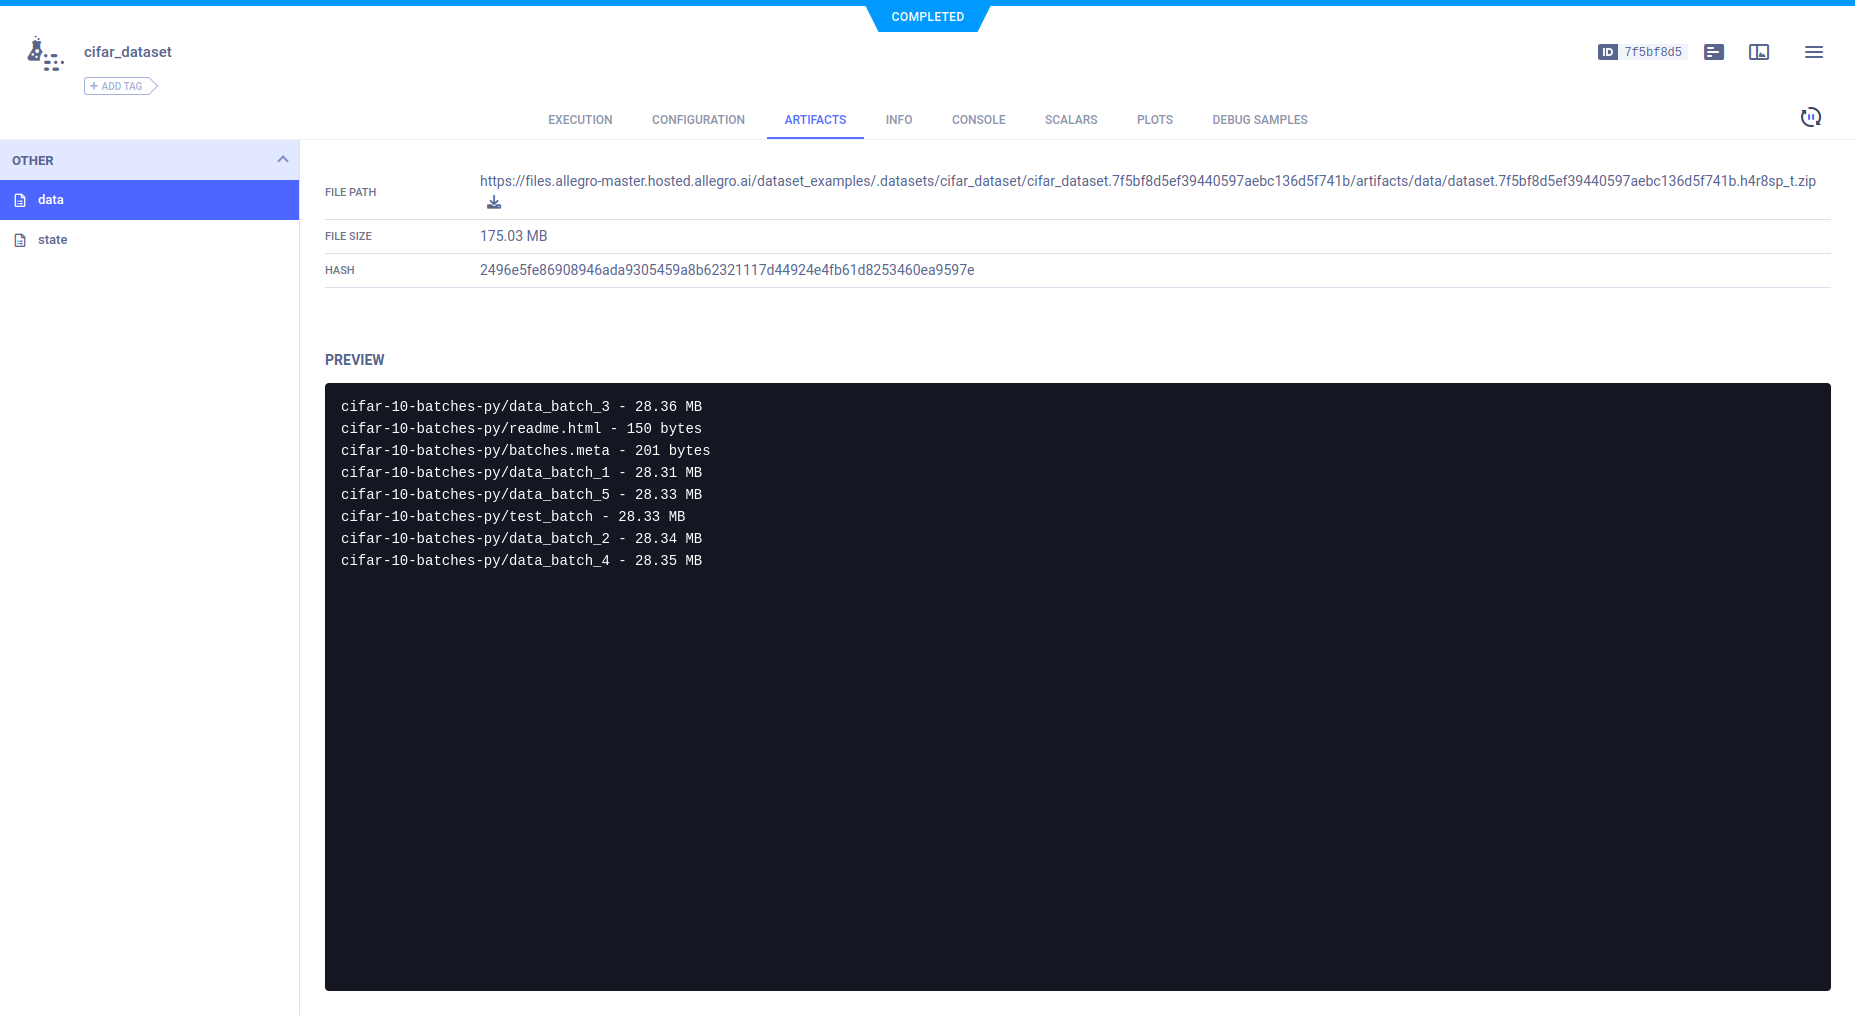
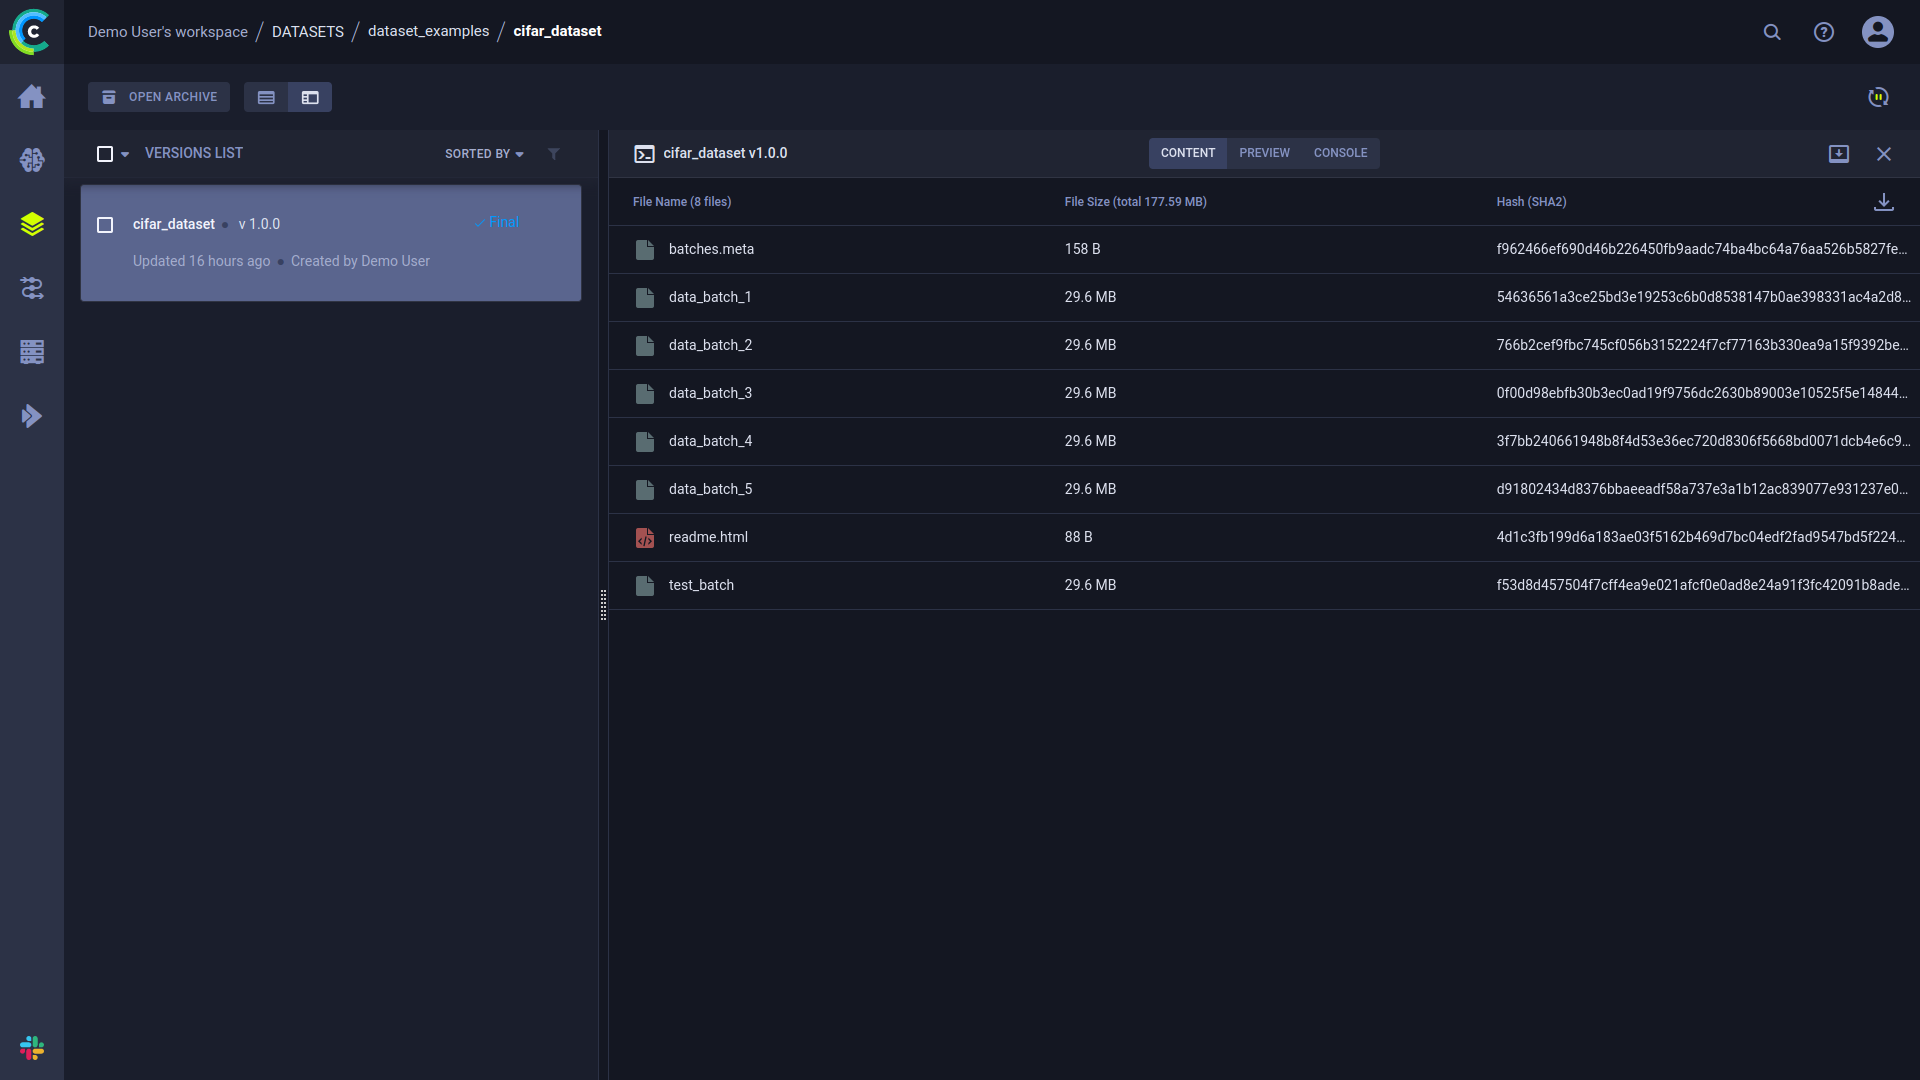
dataset image update

diff --git a/docs/clearml_data/data_management_examples/data_man_cifar_classification.md b/docs/clearml_data/data_management_examples/data_man_cifar_classification.md
@@ -65,10 +65,10 @@ clearml-data close
 This command sets the dataset task's status to *completed*, so it will no longer be modifiable. This ensures future
 reproducibility. 
 
-The information about the dataset, including a list of files and their sizes, can be viewed
-in the WebApp, in the dataset task's **ARTIFACTS** tab.
+Information about the dataset can be viewed in the WebApp, in the dataset's [details panel](../../webapp/datasets/webapp_dataset_viewing.md#version-details-panel). 
+In the panel's **CONTENT** tab, you can see a table summarizing version contents, including file names, file sizes, and hashes.
 
-![image](../../img/examples_data_management_cifar_dataset.png)
+![Dataset content tab](../../img/examples_data_management_cifar_dataset.png)
 
 ## Using the Dataset
 

diff --git a/docs/guides/datasets/data_man_cifar_classification.md b/docs/guides/datasets/data_man_cifar_classification.md
@@ -65,10 +65,10 @@ clearml-data close
 This command sets the dataset task's status to *completed*, so it will no longer be modifiable. This ensures future
 reproducibility. 
 
-The information about the dataset, including a list of files and their sizes, can be viewed
-in the WebApp, in the dataset task's **ARTIFACTS** tab.
+Information about the dataset can be viewed in the WebApp, in the dataset's [details panel](../../webapp/datasets/webapp_dataset_viewing.md#version-details-panel). 
+In the panel's **CONTENT** tab, you can see a table summarizing version contents, including file names, file sizes, and hashes.
 
-![image](../../img/examples_data_management_cifar_dataset.png)
+![Dataset content tab](../../img/examples_data_management_cifar_dataset.png)
 
 ## Using the Dataset
 

diff --git a/docs/clearml_data/data_management_examples/data_man_python.md b/docs/clearml_data/data_management_examples/data_man_python.md
@@ -72,10 +72,10 @@ dataset.finalize()
 
 After a dataset has been closed, it can no longer be modified. This ensures future reproducibility. 
 
-The information about the dataset, including a list of files and their sizes, can be viewed
-in the WebApp, in the dataset task's **ARTIFACTS** tab.
+Information about the dataset can be viewed in the WebApp, in the dataset's [details panel](../../webapp/datasets/webapp_dataset_viewing.md#version-details-panel). 
+In the panel's **CONTENT** tab, you can see a table summarizing version contents, including file names, file sizes, and hashes.
 
-![image](../../img/examples_data_management_cifar_dataset.png)
+![Dataset content tab](../../img/examples_data_management_cifar_dataset.png)
 
 ## Data Ingestion
 

diff --git a/docs/guides/datasets/data_man_python.md b/docs/guides/datasets/data_man_python.md
@@ -72,10 +72,10 @@ dataset.finalize()
 
 After a dataset has been closed, it can no longer be modified. This ensures future reproducibility. 
 
-The information about the dataset, including a list of files and their sizes, can be viewed
-in the WebApp, in the dataset task's **ARTIFACTS** tab.
+Information about the dataset can be viewed in the WebApp, in the dataset's [details panel](../../webapp/datasets/webapp_dataset_viewing.md#version-details-panel). 
+In the panel's **CONTENT** tab, you can see a table summarizing version contents, including file names, file sizes, and hashes.
 
-![image](../../img/examples_data_management_cifar_dataset.png)
+![Dataset content tab](../../img/examples_data_management_cifar_dataset.png)
 
 ## Data Ingestion
 

diff --git a/docs/clearml_data/clearml_data.md b/docs/clearml_data/clearml_data.md
@@ -14,6 +14,8 @@ ClearML Data Management solves two important challenges:
 - Accessibility - Making data easily accessible from every machine,
 - Versioning - Linking data and experiments for better **traceability**.
 
+![Dataset lineage](../img/webapp_dataset_lineage.png)
+
 **We believe Data is not code**. It should not be stored in a git tree, because progress on datasets is not always linear.
 Moreover, it can be difficult and inefficient to find on a git tree the commit associated with a certain version of a dataset.
 

diff --git a/docs/clearml_data/best_practices.md b/docs/clearml_data/best_practices.md
@@ -9,6 +9,8 @@ See [Hyper-Datasets](../hyperdatasets/overview.md) for ClearML's advanced querya
 
 The following are some recommendations for using ClearML Data. 
 
+![Dataset UI gif](../img/dataset.gif)
+
 ## Versioning Datasets
 
 Use ClearML Data to version your datasets. Once a dataset is finalized, it can no longer be modified. This makes clear
